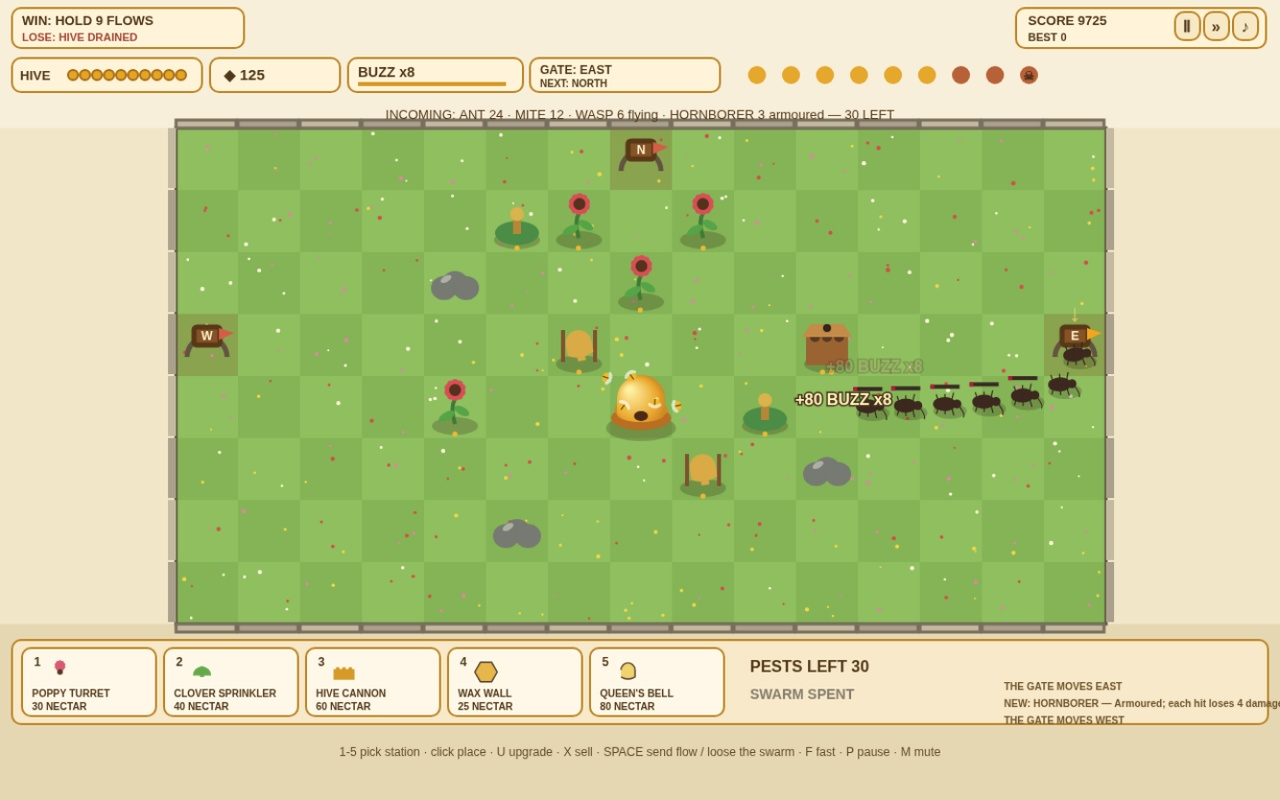
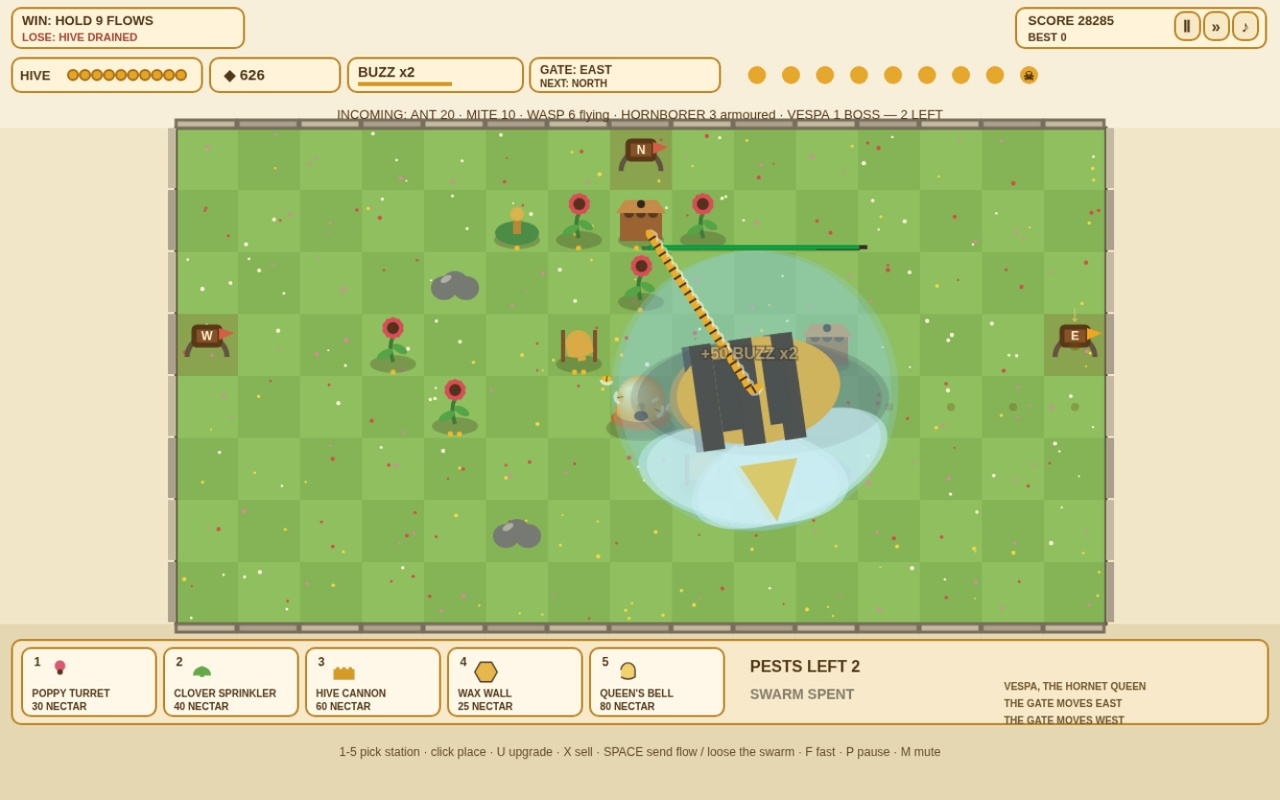
Session 10: single Vespa at proper scale (was double-spawned at 2.6x size); cover re-measured to flow 9 tick 3393

diff --git a/game/src/render/pests.js b/game/src/render/pests.js
@@ -1,5 +1,5 @@
 // Pest sprites drawn in code, one silhouette per kind: the three-segment ant, the pale mite, the striped wasp, the horned grey beetle, and crowned Vespa herself.
 import { BOARD } from './layout.js';
 import { PESTS } from '../config.js';
-export function drawPest(ctx,pest,sim){const size={ant:.52,mite:.3,wasp:.55,hornborer:.8,vespa:1.5}[pest.kind]??.5,s=BOARD.cell*size*(pest.kind==='vespa'?2.6:1),fly=!!PESTS[pest.kind]?.flying,x=BOARD.x+pest.x*BOARD.cell,y=BOARD.y+pest.y*BOARD.cell;let dx=pest.dirx??7.5-pest.x,dy=pest.diry??4.5-pest.y;const a=Math.atan2(dy,dx);ctx.save();ctx.translate(x,y);ctx.fillStyle='rgba(35,27,20,.22)';ctx.beginPath();ctx.ellipse(5,7,s*.52,s*.24,0,0,7);ctx.fill();ctx.rotate(a);const wob=sim.time*13+(pest.wob||0);if(fly){ctx.fillStyle='rgba(227,249,248,.55)';for(const q of [-1,1]){ctx.save();ctx.rotate(q*(.4+Math.sin(wob)*.25));ctx.beginPath();ctx.ellipse(0,-s*.35,s*.42,s*.2,0,0,7);ctx.fill();ctx.restore()}}else{ctx.strokeStyle='#34251b';ctx.lineWidth=Math.max(1,s*.035);for(let i=0;i<3;i++)for(const q of [-1,1]){ctx.beginPath();ctx.moveTo((i-1)*s*.2,q*s*.08);ctx.lineTo((i-1)*s*.27,q*s*(.34+Math.sin(wob+i)*.04));ctx.stroke()}}
+export function drawPest(ctx,pest,sim){const size={ant:.52,mite:.3,wasp:.55,hornborer:.8,vespa:1.5}[pest.kind]??.5,s=BOARD.cell*size,fly=!!PESTS[pest.kind]?.flying,x=BOARD.x+pest.x*BOARD.cell,y=BOARD.y+pest.y*BOARD.cell;let dx=pest.dirx??7.5-pest.x,dy=pest.diry??4.5-pest.y;const a=Math.atan2(dy,dx);ctx.save();ctx.translate(x,y);ctx.fillStyle='rgba(35,27,20,.22)';ctx.beginPath();ctx.ellipse(5,7,s*.52,s*.24,0,0,7);ctx.fill();ctx.rotate(a);const wob=sim.time*13+(pest.wob||0);if(fly){ctx.fillStyle='rgba(227,249,248,.55)';for(const q of [-1,1]){ctx.save();ctx.rotate(q*(.4+Math.sin(wob)*.25));ctx.beginPath();ctx.ellipse(0,-s*.35,s*.42,s*.2,0,0,7);ctx.fill();ctx.restore()}}else{ctx.strokeStyle='#34251b';ctx.lineWidth=Math.max(1,s*.035);for(let i=0;i<3;i++)for(const q of [-1,1]){ctx.beginPath();ctx.moveTo((i-1)*s*.2,q*s*.08);ctx.lineTo((i-1)*s*.27,q*s*(.34+Math.sin(wob+i)*.04));ctx.stroke()}}
  const body=pest.kind==='ant'?'#3d2820':pest.kind==='mite'?'#ead6aa':pest.kind==='hornborer'?'#737772':'#e5a92c';ctx.fillStyle=body;ctx.beginPath();ctx.ellipse(0,0,s*.34,s*.22,0,0,7);ctx.fill();if(pest.kind==='ant'){ctx.beginPath();ctx.arc(-s*.37,0,s*.14,0,7);ctx.arc(s*.2,0,s*.17,0,7);ctx.fill();ctx.strokeStyle='#3d2820';ctx.beginPath();ctx.moveTo(-s*.46,-s*.1);ctx.quadraticCurveTo(-s*.64,-s*.35,-s*.56,-s*.42);ctx.stroke()}else if(pest.kind==='hornborer'){ctx.fillStyle='#b6b8b1';ctx.fillRect(-s*.12,-s*.2,s*.24,s*.4);ctx.fillStyle='#737772';ctx.beginPath();ctx.moveTo(s*.24,-s*.12);ctx.lineTo(s*.6,0);ctx.lineTo(s*.24,s*.12);ctx.fill()}else if(fly){ctx.fillStyle='#38291c';for(let i=-1;i<=1;i++){ctx.fillRect(i*s*.17,-s*.22,s*.09,s*.44)}}if(pest.kind==='vespa'){ctx.fillStyle='#f0c642';ctx.beginPath();ctx.moveTo(-s*.12,-s*.3);ctx.lineTo(0,-s*.55);ctx.lineTo(s*.12,-s*.3);ctx.fill();ctx.fillStyle='#36261c';ctx.fillRect(-s*.12,-s*.15,s*.09,s*.3);ctx.fillRect(s*.08,-s*.15,s*.09,s*.3)}ctx.restore();if(pest.hp<pest.maxHp){const w=s*.9,px=x-w/2,py=y-s*.6;ctx.fillStyle='#392a23';ctx.fillRect(px,py,w,4);ctx.fillStyle=`rgb(${Math.round(220*(1-pest.hp/pest.maxHp))},${Math.round(170*pest.hp/pest.maxHp)},65)`;ctx.fillRect(px,py,w*Math.max(0,pest.hp/pest.maxHp),4)}if(pest.slowUntil>sim.time){ctx.fillStyle='rgba(143,213,239,.25)';ctx.beginPath();ctx.arc(x,y,s*.58,0,7);ctx.fill()}if(pest.stunUntil>sim.time){ctx.fillStyle='#ffe986';ctx.font='bold 15px sans-serif';ctx.fillText('✦',x,y-s*.55)}}

diff --git a/game/src/sim.js b/game/src/sim.js
@@ -21,7 +21,7 @@ export function createSim({ seed, difficulty = 'keeper', save = { best: {}, hist
     queueSpawn(id, at) { this.pendingSpawns ??= []; this.pendingSpawns.push({ id, at }); },
     leak(pest) { const n = pest.leak ?? 1; this.hive -= n; this.leaks += n; this.leaksPerFlow[this.flow - 1] = (this.leaksPerFlow[this.flow - 1] ?? 0) + n; this.floaters.push({ x: 7.5, y: 4.5, text: `−${n} HIVE`, t: 0, color: 'red' }); this.events.push({ type: 'leak' }); if (this.hive <= 0) this.finish(false); },
     finalHash() { return hashState({ score: this.score, nectar: this.nectar, hive: this.hive, kills: this.kills, flow: this.flow, stations: this.stations.map(s => [s.kind, s.c, s.r, s.level, s.hp]), rng: this.rng.state.value }); },
-    startFlow() { this.screen = 'flow'; this.flowTime = 0; this.gateSide = gateForFlow(this.seed, this.flow); this.gateCell = gateCell(this.gateSide); this.spawns = spawnList(this.flow, keyDiff); if (this.endless && this.flow > 9) { const factor = 1 + 0.15 * (this.flow - 9); const base = spawnList(8, keyDiff); this.spawns = base.map(s => ({ ...s, at: s.at / factor })); } if (this.flow === 9 && !this.endless) this.spawns.push({ at: (this.spawns.at(-1)?.at ?? 0) + 1, pest: 'vespa' }); this.spawnPointer = 0; this.swarmReady = true; this.waves = (awaitlessWaves); this.events.push({ type: 'gate', side: this.gateSide }); if (this.flow === 3) this.events.push({ type: 'newpest', id: 'wasp' }); if (this.flow === 5) this.events.push({ type: 'newpest', id: 'hornborer' }); if (this.flow === 9) this.events.push({ type: 'vespa' }); },
+    startFlow() { this.screen = 'flow'; this.flowTime = 0; this.gateSide = gateForFlow(this.seed, this.flow); this.gateCell = gateCell(this.gateSide); this.spawns = spawnList(this.flow, keyDiff); if (this.endless && this.flow > 9) { const factor = 1 + 0.15 * (this.flow - 9); const base = spawnList(8, keyDiff); this.spawns = base.map(s => ({ ...s, at: s.at / factor })); } this.spawnPointer = 0; this.swarmReady = true; this.waves = (awaitlessWaves); this.events.push({ type: 'gate', side: this.gateSide }); if (this.flow === 3) this.events.push({ type: 'newpest', id: 'wasp' }); if (this.flow === 5) this.events.push({ type: 'newpest', id: 'hornborer' }); if (this.flow === 9) this.events.push({ type: 'vespa' }); },
     buy(towerId, c, r) { const spec = TOWERS.find(t => t.id === towerId); if (!spec || !canPlace(this.grid, c, r) || this.nectar < spec.cost || (towerId === 'bell' && this.flow < 4 && !this.endless) || (towerId === 'wall' && wouldSeal(this.grid, c, r))) return false; const st = makeStation(this, towerId, c, r); if (!place(this.grid, c, r, st)) return false; this.stations.push(st); const paid = Math.ceil(spec.cost * (this.boons.has('thrifty') ? 0.75 : 1)); st.invested = paid; this.nectar -= paid; if (this.stations.length >= 8) this.feat('bloom'); this.checkRich(); return true; },
     upgradeAt(c, r) { const st = this.grid.occ.get(key(c, r)); if (!st) return false; const cost = upgradeCost(this, st); if (this.nectar < cost || !Number.isFinite(cost)) return false; this.nectar -= cost; st.invested += cost; st.level += 1; if (st.kind === 'wall') st.hp *= st.level === 2 ? 1.8 : 3 / 1.8; return true; },
     sellAt(c, r) { const st = removeAt(this.grid, c, r); if (!st) return false; this.stations = this.stations.filter(s => s !== st); this.nectar += sellValue(st); this.checkRich(); return true; },

diff --git a/game/src/plan.js b/game/src/plan.js
@@ -1,5 +1,5 @@
 // The keeper's rehearsal plan: a fixed build order and draft picks that the staging bot follows, so a whole campaign can be replayed tick-perfect in Node and in the browser.
-export const PLAN_COVER = { flow: 9, tickInFlow: 3400 };
+export const PLAN_COVER = { flow: 9, tickInFlow: 3393 };
 export const PLAN = [
   [
     { buy: 'poppy', c: 6, r: 1 }, { buy: 'poppy', c: 8, r: 1 },
